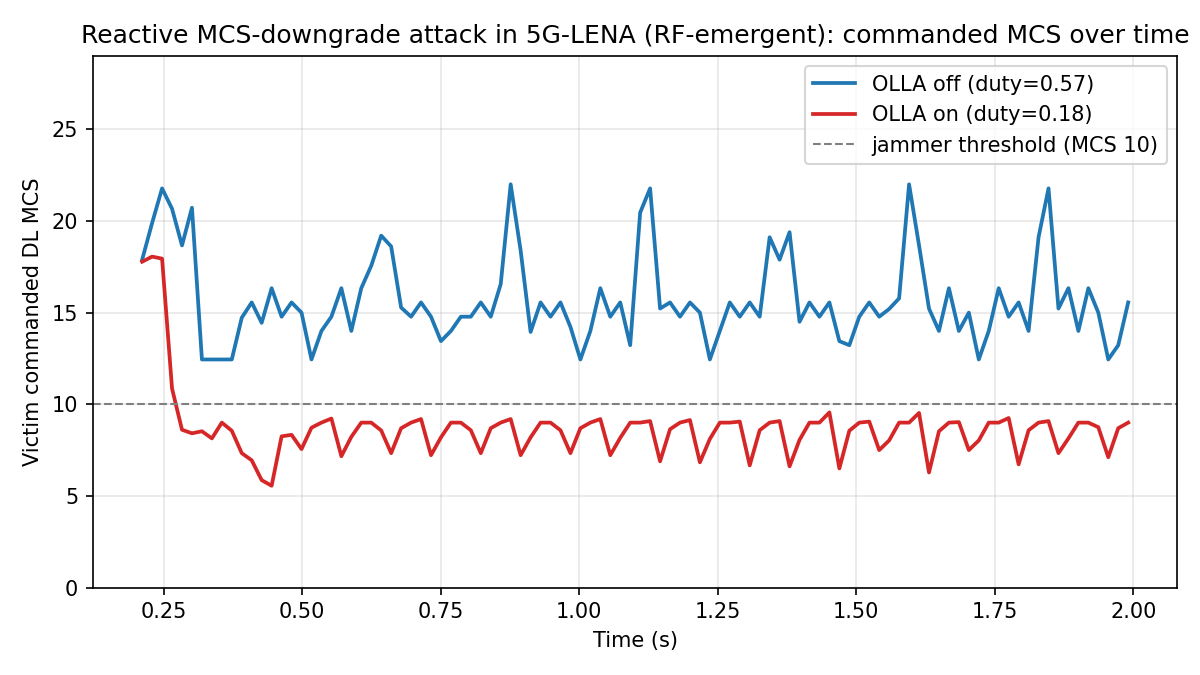
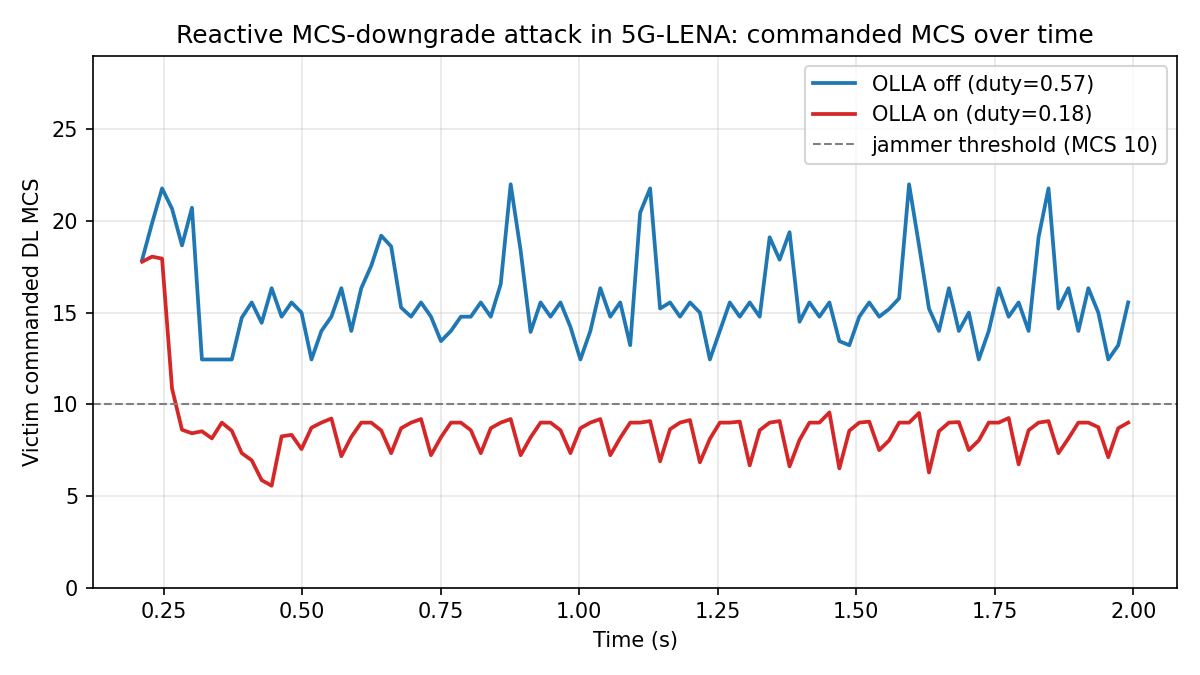
Paper: drop "RF-Emergent" from the title and prose
The coined term needed a definition and drew reviewer doubt, so it does not earn
a slot in the title. Title is now "An MCS-Downgrade Reactive Jamming Attack on
Industrial 5G Link Adaptation". The distinction it carried (the downgrade arises
from the radio layer with no forged/injected feedback, vs prior all-or-nothing
models) is kept in the intro and threats-to-validity in plain words. Fig. 3
in-image title regenerated without the term.

Changed region(s): [[0.0617, 0.0311, 0.9867, 0.0622]]

diff --git a/scenarios/paper/MCS-Downgrade-5GLENA-Paper.tex b/scenarios/paper/MCS-Downgrade-5GLENA-Paper.tex
@@ -15,8 +15,7 @@
 
 \begin{document}
 
-\title{An RF-Emergent MCS-Downgrade Reactive Jamming Attack on Industrial 5G
-Link Adaptation}
+\title{An MCS-Downgrade Reactive Jamming Attack on Industrial 5G Link Adaptation}
 
 \author{\IEEEauthorblockN{Author Name}
 \IEEEauthorblockA{Affiliation \\
@@ -81,10 +80,10 @@ attack. The idea is not new in wireless generally: smart jamming can trap IEEE~8
 rate adaptation at a low rate, because the link recovers more slowly than it backs
 off~\cite{thapa2011rate}. Whether and how it carries over to 5G is not obvious, because
 5G sets the rate through a different, two-loop mechanism (Section~\ref{sec:system}); that
-is the question we study. Our central claim is that the downgrade is \emph{RF-emergent}:
-it arises from the radio layer itself. Interference corrupts a high-rate block, the
-receiver returns a \emph{genuine} failure report, and the link-adaptation loop lowers the
-rate in response, with no forged or injected feedback anywhere in the chain. We argue
+is the question we study. Our central claim is that the downgrade arises from the radio
+layer itself: interference corrupts a high-rate block, the receiver returns a
+\emph{genuine} failure report, and the link-adaptation loop lowers the rate in response,
+with no forged or injected feedback anywhere in the chain. We argue
 this is a by-design weakness of any 5G link that runs outer-loop link adaptation, and we
 measure its impact on an industrial control loop.
 
@@ -859,7 +858,8 @@ simple bottle-filling analog; its fault count tracks the \emph{clustering} of de
 misses rather than their average rate, so it illustrates physical impact but is not a
 calibrated plant. And our confidence intervals are over a small number of seeds; they
 bound the spread within one geometry, not across deployments. None of these change the
-central claim, which is qualitative: an RF-emergent, OLLA-conditional downgrade exists.
+central claim, which is qualitative: the downgrade emerges from the radio model and is
+conditional on OLLA.
 
 \section{Conclusion}
 We built the MCS-downgrade reactive jamming attack in a higher-fidelity 5G simulator.

diff --git a/scenarios/scripts/plot-reactive.py b/scenarios/scripts/plot-reactive.py
@@ -76,7 +76,7 @@ for tag, label, color in [
 ax.axhline(THRESHOLD, color="gray", ls="--", lw=1.0, label=f"jammer threshold (MCS {THRESHOLD})")
 ax.set_xlabel("Time (s)")
 ax.set_ylabel("Victim commanded DL MCS")
-ax.set_title("Reactive MCS-downgrade attack in 5G-LENA (RF-emergent): commanded MCS over time")
+ax.set_title("Reactive MCS-downgrade attack in 5G-LENA: commanded MCS over time")
 ax.set_ylim(0, 29)
 ax.grid(True, alpha=0.3)
 ax.legend(loc="upper right")
